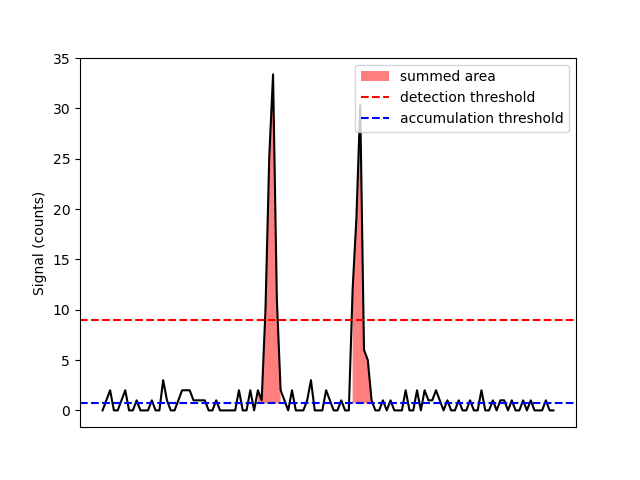
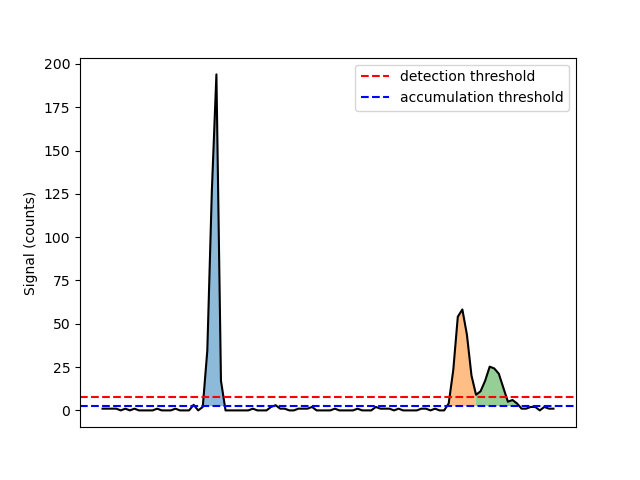
update docs

diff --git a/spcal/detection.py b/spcal/detection.py
@@ -42,9 +42,10 @@ def accumulate_detections(
 ) -> tuple[np.ndarray, np.ndarray, np.ndarray]:
     """Returns an array of accumulated detections.
 
-    Contiguous regions above ``limit_accumulation`` that contain at least
-    ``points_required`` values above ``limit_detection`` are summed or integrated
-    (sum - ``limit_accumulation``).
+    Peak prominence is calculated for all points above the ``limit_detection``,
+    with widths bound by the ``limit_accumulation``.
+    Detections are peaks with a prominence greater than ``limit_detection`` and at
+    least ``points_required`` points above the ``limit_detection``.
 
     Args:
         y: array
@@ -70,6 +71,7 @@ def accumulate_detections(
         raise ValueError("accumulate_detections: minimum size must be >= 1")
 
     # todo: see if smoothing required
+    # todo: perfoemance of possible_detections, detections and sum
     # psf = normal.pdf(np.linspace(-2, 2, 5))
     # ysm = np.convolve(y, psf / psf.sum(), mode="same")
 
@@ -80,7 +82,7 @@ def accumulate_detections(
         y, possible_detections, limit_accumulation
     )
 
-    detected = prominence > limit_detection * 0.9
+    detected = prominence >= limit_detection
 
     prominence, lefts, rights = (
         prominence[detected],

diff --git a/docs/source/usage/options.rst b/docs/source/usage/options.rst
@@ -6,8 +6,8 @@ Thresholding Options
 .. figure:: ../images/options_accumulation.png
    :align: center
 
-   Signal above the :term:`detection threshold` is detected as a particle.
-   Contiguous regions above the :term:`accumulation threshold`, with at least the :term:`required points` detections, are summed.
+   Peaks above the :term:`detection threshold` are detected as particles. Merged peaks are split using their prominence.
+   Peak regions above the :term:`accumulation threshold`, with at least the :term:`required points` detections, are summed.
 
 To resolve particles from background signals a :term:`detection threshold` must be defined, above with signal is considered a particle.
 SPCal offers three different thresholding methods, each with their own use-cases.
